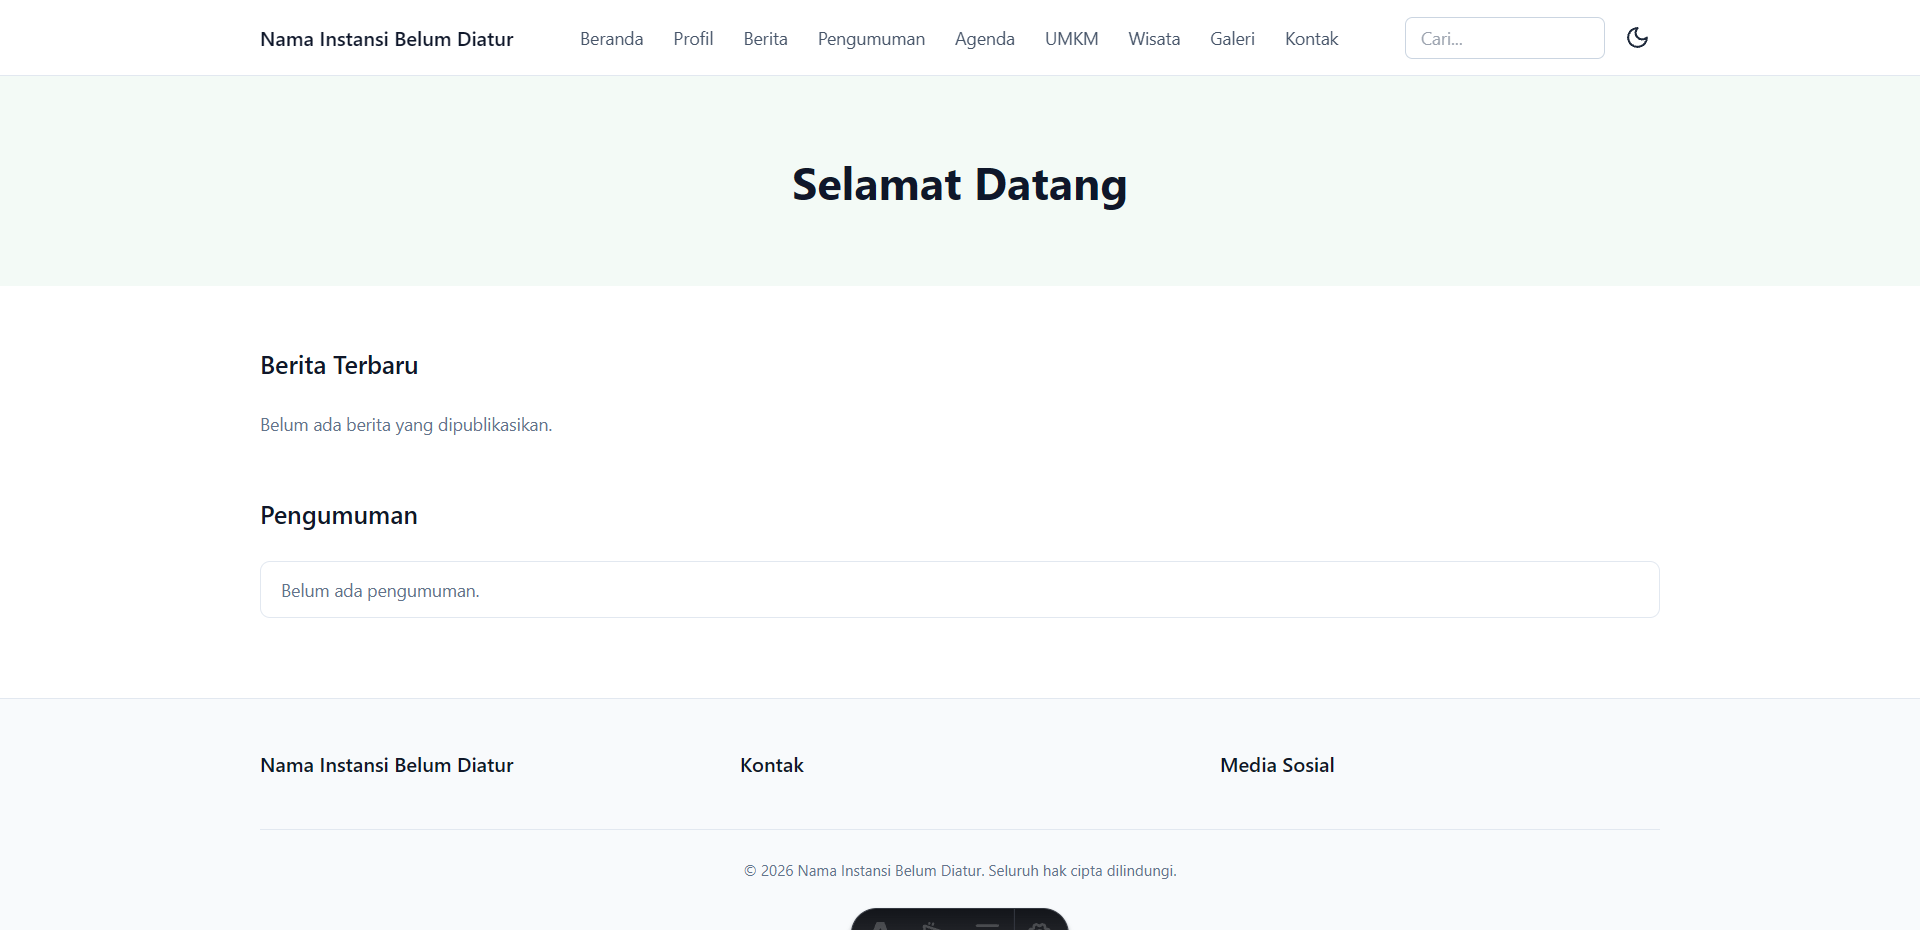
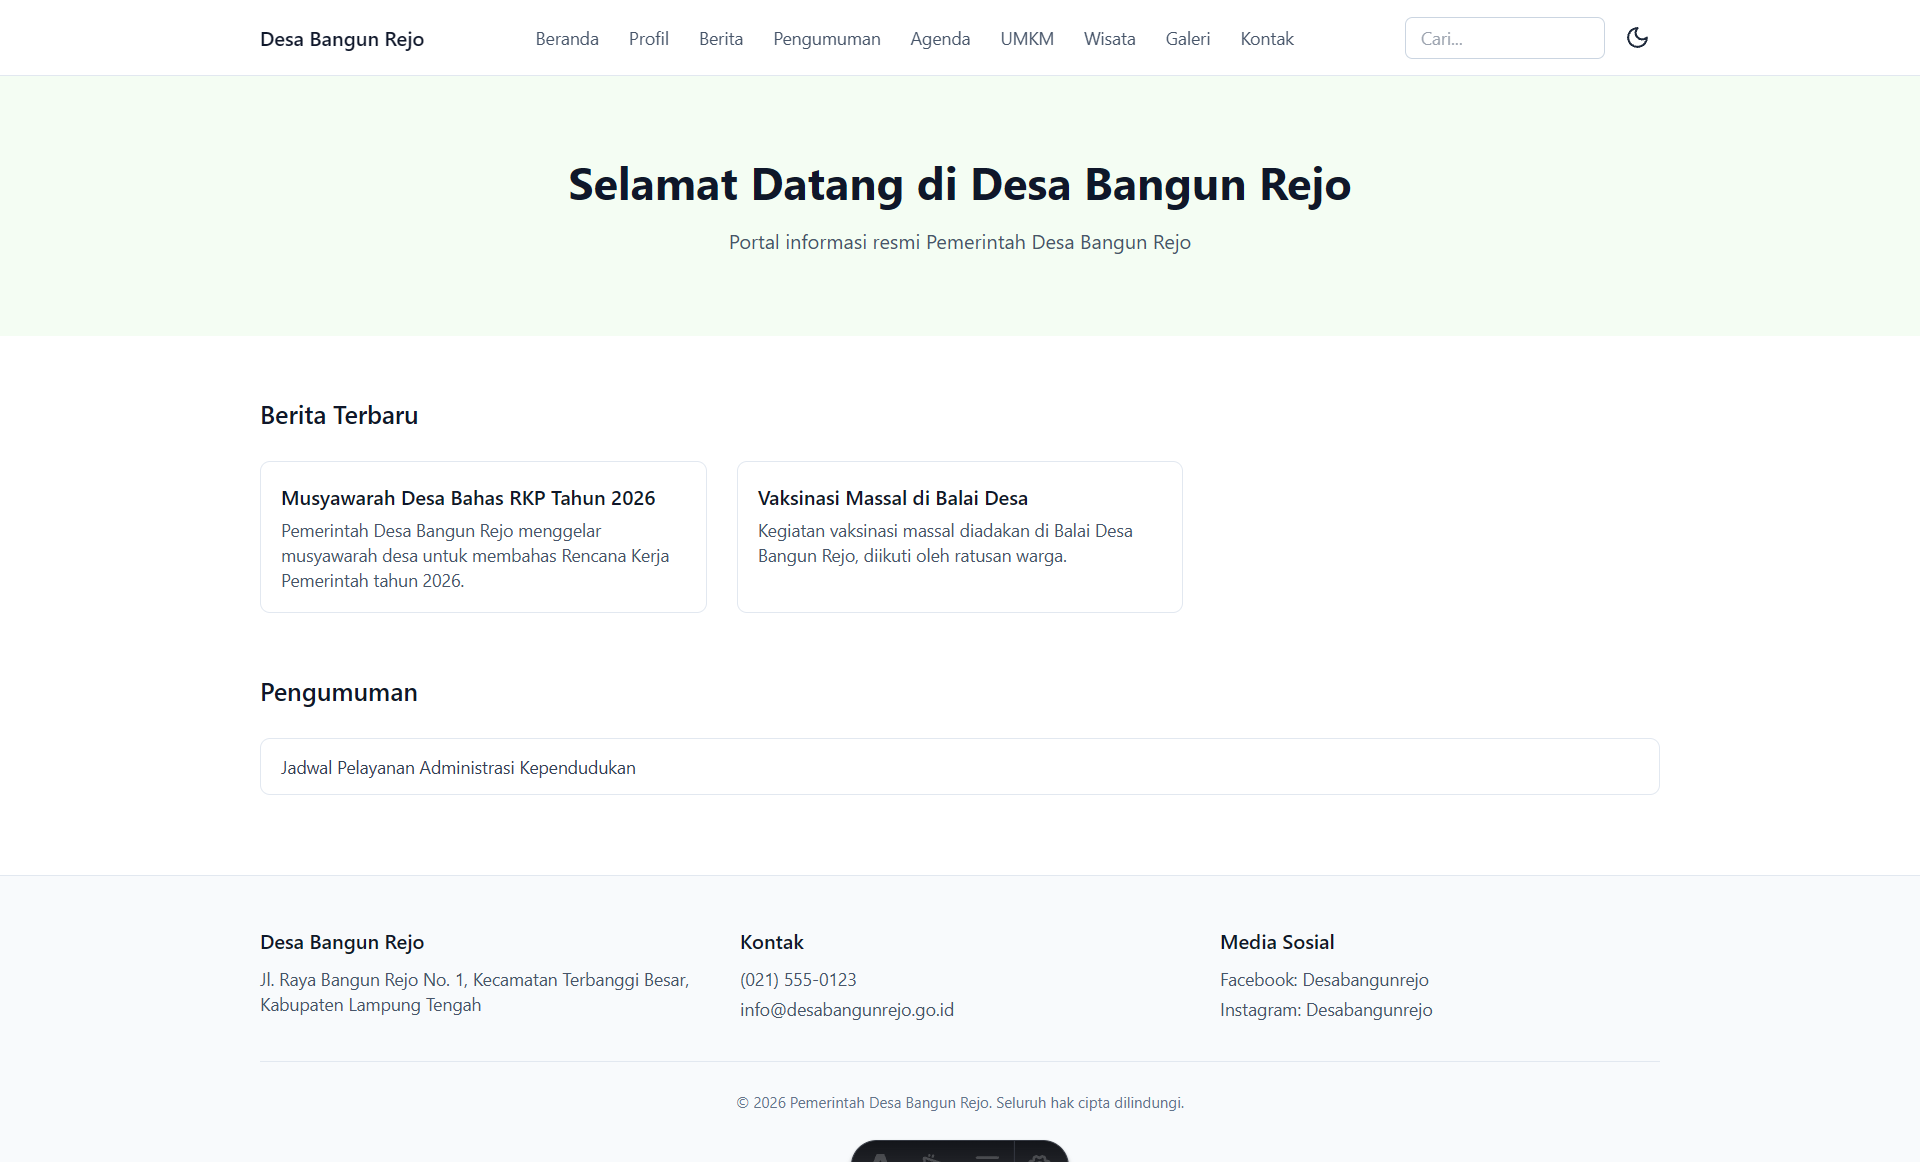
fix: improve formatting and structure in InstitutionProfilePage component

diff --git a/src/admin/pages/profil/InstitutionProfilePage.tsx b/src/admin/pages/profil/InstitutionProfilePage.tsx
@@ -132,25 +132,47 @@ export default function InstitutionProfilePage() {
 
   return (
     <div>
-      <h1 className="mb-2 text-xl font-semibold text-slate-900">Profil Instansi</h1>
+      <h1 className="mb-2 text-xl font-semibold text-slate-900">
+        Profil Instansi
+      </h1>
       <p className="mb-6 text-sm text-slate-500">
-        Pengaturan ini menentukan branding di seluruh halaman publik: nama, logo, warna, dan kontak.
+        Pengaturan ini menentukan branding di seluruh halaman publik: nama,
+        logo, warna, dan kontak.
       </p>
 
-      <form onSubmit={handleSubmit((values) => saveMutation.mutate(values))} className="max-w-2xl space-y-6 rounded-lg border border-slate-200 bg-white p-6">
+      <form
+        onSubmit={handleSubmit((values) => saveMutation.mutate(values))}
+        className="max-w-2xl space-y-6 rounded-lg border border-slate-200 bg-white p-6"
+      >
         <section className="space-y-4">
           <h2 className="font-medium text-slate-900">Identitas</h2>
           <div className="grid gap-4 sm:grid-cols-2">
             <div>
-              <label className="mb-1 block text-sm text-slate-700">Nama Instansi</label>
-              <input className="w-full rounded-md border border-slate-300 px-3 py-2 text-sm" {...register("name")} />
-              {errors.name && <p className="mt-1 text-xs text-red-600">{errors.name.message}</p>}
+              <label className="mb-1 block text-sm text-slate-700">
+                Nama Instansi
+              </label>
+              <input
+                className="w-full rounded-md border border-slate-300 px-3 py-2 text-sm"
+                {...register("name")}
+              />
+              {errors.name && (
+                <p className="mt-1 text-xs text-red-600">
+                  {errors.name.message}
+                </p>
+              )}
             </div>
             <div>
-              <label className="mb-1 block text-sm text-slate-700">Jenis Instansi</label>
-              <select className="w-full rounded-md border border-slate-300 px-3 py-2 text-sm" {...register("type")}>
+              <label className="mb-1 block text-sm text-slate-700">
+                Jenis Instansi
+              </label>
+              <select
+                className="w-full rounded-md border border-slate-300 px-3 py-2 text-sm"
+                {...register("type")}
+              >
                 {institutionTypes.map((t) => (
-                  <option key={t.value} value={t.value}>{t.label}</option>
+                  <option key={t.value} value={t.value}>
+                    {t.label}
+                  </option>
                 ))}
               </select>
             </div>
@@ -158,9 +180,22 @@ export default function InstitutionProfilePage() {
 
           <div>
             <label className="mb-1 block text-sm text-slate-700">Logo</label>
-            <input type="file" accept="image/*" onChange={handleLogoUpload} className="text-sm" />
-            {isUploading && <p className="mt-1 text-xs text-slate-500">Mengunggah...</p>}
-            {logoUrl && <img src={logoUrl} alt="Logo" className="mt-2 h-16 object-contain" />}
+            <input
+              type="file"
+              accept="image/*"
+              onChange={handleLogoUpload}
+              className="text-sm"
+            />
+            {isUploading && (
+              <p className="mt-1 text-xs text-slate-500">Mengunggah...</p>
+            )}
+            {logoUrl && (
+              <img
+                src={logoUrl}
+                alt="Logo"
+                className="mt-2 h-16 object-contain"
+              />
+            )}
           </div>
         </section>
 
@@ -168,12 +203,26 @@ export default function InstitutionProfilePage() {
           <h2 className="font-medium text-slate-900">Warna Brand</h2>
           <div className="grid gap-4 sm:grid-cols-2">
             <div>
-              <label className="mb-1 block text-sm text-slate-700">Warna Utama</label>
-              <input type="color" value={primaryColor} onChange={(e) => setPrimaryColor(e.target.value)} className="h-10 w-full rounded-md border border-slate-300" />
+              <label className="mb-1 block text-sm text-slate-700">
+                Warna Utama
+              </label>
+              <input
+                type="color"
+                value={primaryColor}
+                onChange={(e) => setPrimaryColor(e.target.value)}
+                className="h-10 w-full rounded-md border border-slate-300"
+              />
             </div>
             <div>
-              <label className="mb-1 block text-sm text-slate-700">Warna Kedua</label>
-              <input type="color" value={secondaryColor} onChange={(e) => setSecondaryColor(e.target.value)} className="h-10 w-full rounded-md border border-slate-300" />
+              <label className="mb-1 block text-sm text-slate-700">
+                Warna Kedua
+              </label>
+              <input
+                type="color"
+                value={secondaryColor}
+                onChange={(e) => setSecondaryColor(e.target.value)}
+                className="h-10 w-full rounded-md border border-slate-300"
+              />
             </div>
           </div>
         </section>
@@ -182,27 +231,52 @@ export default function InstitutionProfilePage() {
           <h2 className="font-medium text-slate-900">Kontak</h2>
           <div>
             <label className="mb-1 block text-sm text-slate-700">Alamat</label>
-            <input className="w-full rounded-md border border-slate-300 px-3 py-2 text-sm" {...register("address")} />
+            <input
+              className="w-full rounded-md border border-slate-300 px-3 py-2 text-sm"
+              {...register("address")}
+            />
           </div>
           <div className="grid gap-4 sm:grid-cols-2">
             <div>
-              <label className="mb-1 block text-sm text-slate-700">Telepon</label>
-              <input className="w-full rounded-md border border-slate-300 px-3 py-2 text-sm" {...register("phone")} />
+              <label className="mb-1 block text-sm text-slate-700">
+                Telepon
+              </label>
+              <input
+                className="w-full rounded-md border border-slate-300 px-3 py-2 text-sm"
+                {...register("phone")}
+              />
             </div>
             <div>
               <label className="mb-1 block text-sm text-slate-700">Email</label>
-              <input className="w-full rounded-md border border-slate-300 px-3 py-2 text-sm" {...register("email")} />
-              {errors.email && <p className="mt-1 text-xs text-red-600">{errors.email.message}</p>}
+              <input
+                className="w-full rounded-md border border-slate-300 px-3 py-2 text-sm"
+                {...register("email")}
+              />
+              {errors.email && (
+                <p className="mt-1 text-xs text-red-600">
+                  {errors.email.message}
+                </p>
+              )}
             </div>
           </div>
           <div className="grid gap-4 sm:grid-cols-2">
             <div>
-              <label className="mb-1 block text-sm text-slate-700">Facebook (username)</label>
-              <input className="w-full rounded-md border border-slate-300 px-3 py-2 text-sm" {...register("facebook")} />
+              <label className="mb-1 block text-sm text-slate-700">
+                Facebook (username)
+              </label>
+              <input
+                className="w-full rounded-md border border-slate-300 px-3 py-2 text-sm"
+                {...register("facebook")}
+              />
             </div>
             <div>
-              <label className="mb-1 block text-sm text-slate-700">Instagram (username)</label>
-              <input className="w-full rounded-md border border-slate-300 px-3 py-2 text-sm" {...register("instagram")} />
+              <label className="mb-1 block text-sm text-slate-700">
+                Instagram (username)
+              </label>
+              <input
+                className="w-full rounded-md border border-slate-300 px-3 py-2 text-sm"
+                {...register("instagram")}
+              />
             </div>
           </div>
         </section>
@@ -211,34 +285,72 @@ export default function InstitutionProfilePage() {
           <h2 className="font-medium text-slate-900">Visi & Misi</h2>
           <div>
             <label className="mb-1 block text-sm text-slate-700">Visi</label>
-            <textarea rows={2} className="w-full rounded-md border border-slate-300 px-3 py-2 text-sm" {...register("vision")} />
+            <textarea
+              rows={2}
+              className="w-full rounded-md border border-slate-300 px-3 py-2 text-sm"
+              {...register("vision")}
+            />
           </div>
           <div>
             <label className="mb-1 block text-sm text-slate-700">Misi</label>
-            <textarea rows={4} className="w-full rounded-md border border-slate-300 px-3 py-2 text-sm" {...register("mission")} />
+            <textarea
+              rows={4}
+              className="w-full rounded-md border border-slate-300 px-3 py-2 text-sm"
+              {...register("mission")}
+            />
           </div>
         </section>
 
         <section className="space-y-4 border-t border-slate-200 pt-4">
-          <h2 className="font-medium text-slate-900">Halaman Beranda & Footer</h2>
+          <h2 className="font-medium text-slate-900">
+            Halaman Beranda & Footer
+          </h2>
           <div>
-            <label className="mb-1 block text-sm text-slate-700">Judul Hero</label>
-            <input className="w-full rounded-md border border-slate-300 px-3 py-2 text-sm" {...register("hero_title")} />
+            <label className="mb-1 block text-sm text-slate-700">
+              Judul Hero
+            </label>
+            <input
+              className="w-full rounded-md border border-slate-300 px-3 py-2 text-sm"
+              {...register("hero_title")}
+            />
           </div>
           <div>
-            <label className="mb-1 block text-sm text-slate-700">Subjudul Hero</label>
-            <input className="w-full rounded-md border border-slate-300 px-3 py-2 text-sm" {...register("hero_subtitle")} />
+            <label className="mb-1 block text-sm text-slate-700">
+              Subjudul Hero
+            </label>
+            <input
+              className="w-full rounded-md border border-slate-300 px-3 py-2 text-sm"
+              {...register("hero_subtitle")}
+            />
           </div>
           <div>
-            <label className="mb-1 block text-sm text-slate-700">Teks Footer</label>
-            <input className="w-full rounded-md border border-slate-300 px-3 py-2 text-sm" {...register("footer_text")} />
+            <label className="mb-1 block text-sm text-slate-700">
+              Teks Footer
+            </label>
+            <input
+              className="w-full rounded-md border border-slate-300 px-3 py-2 text-sm"
+              {...register("footer_text")}
+            />
           </div>
         </section>
 
-        {saveMutation.isError && <p className="text-sm text-red-600">Gagal menyimpan, silakan coba lagi.</p>}
-        {saveSuccess && <p className="text-sm text-green-600">Perubahan tersimpan.</p>}
+        {saveMutation.isError && (
+          <p className="text-sm text-red-600">
+            Gagal menyimpan:{" "}
+            {saveMutation.error instanceof Error
+              ? saveMutation.error.message
+              : "unknown error"}
+          </p>
+        )}
+        {saveSuccess && (
+          <p className="text-sm text-green-600">Perubahan tersimpan.</p>
+        )}
 
-        <button type="submit" disabled={isSubmitting || isUploading} className="rounded-md bg-brand-primary px-4 py-2 text-sm font-medium text-white disabled:opacity-60">
+        <button
+          type="submit"
+          disabled={isSubmitting || isUploading}
+          className="rounded-md bg-brand-primary px-4 py-2 text-sm font-medium text-white disabled:opacity-60"
+        >
           {isSubmitting ? "Menyimpan..." : "Simpan Perubahan"}
         </button>
       </form>
